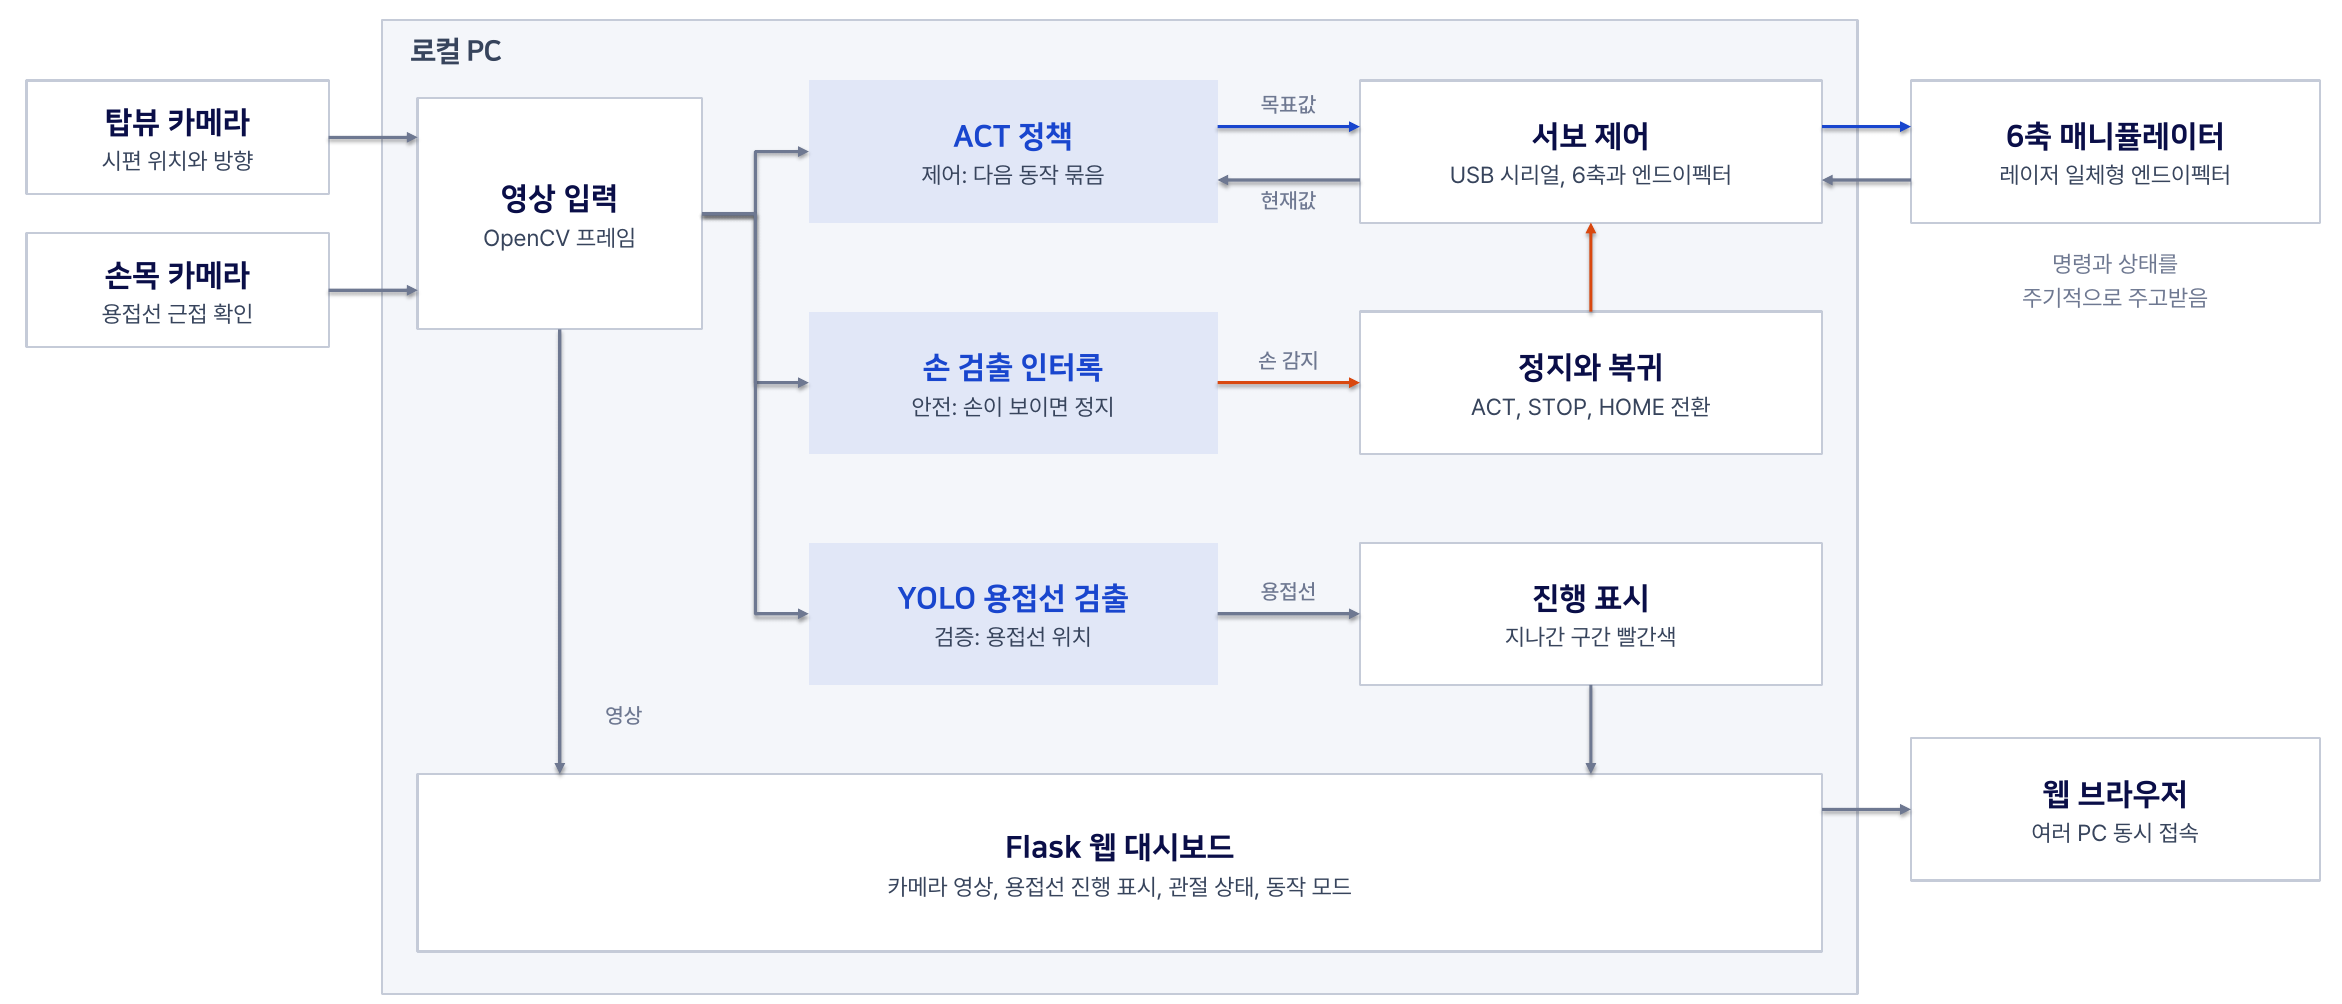
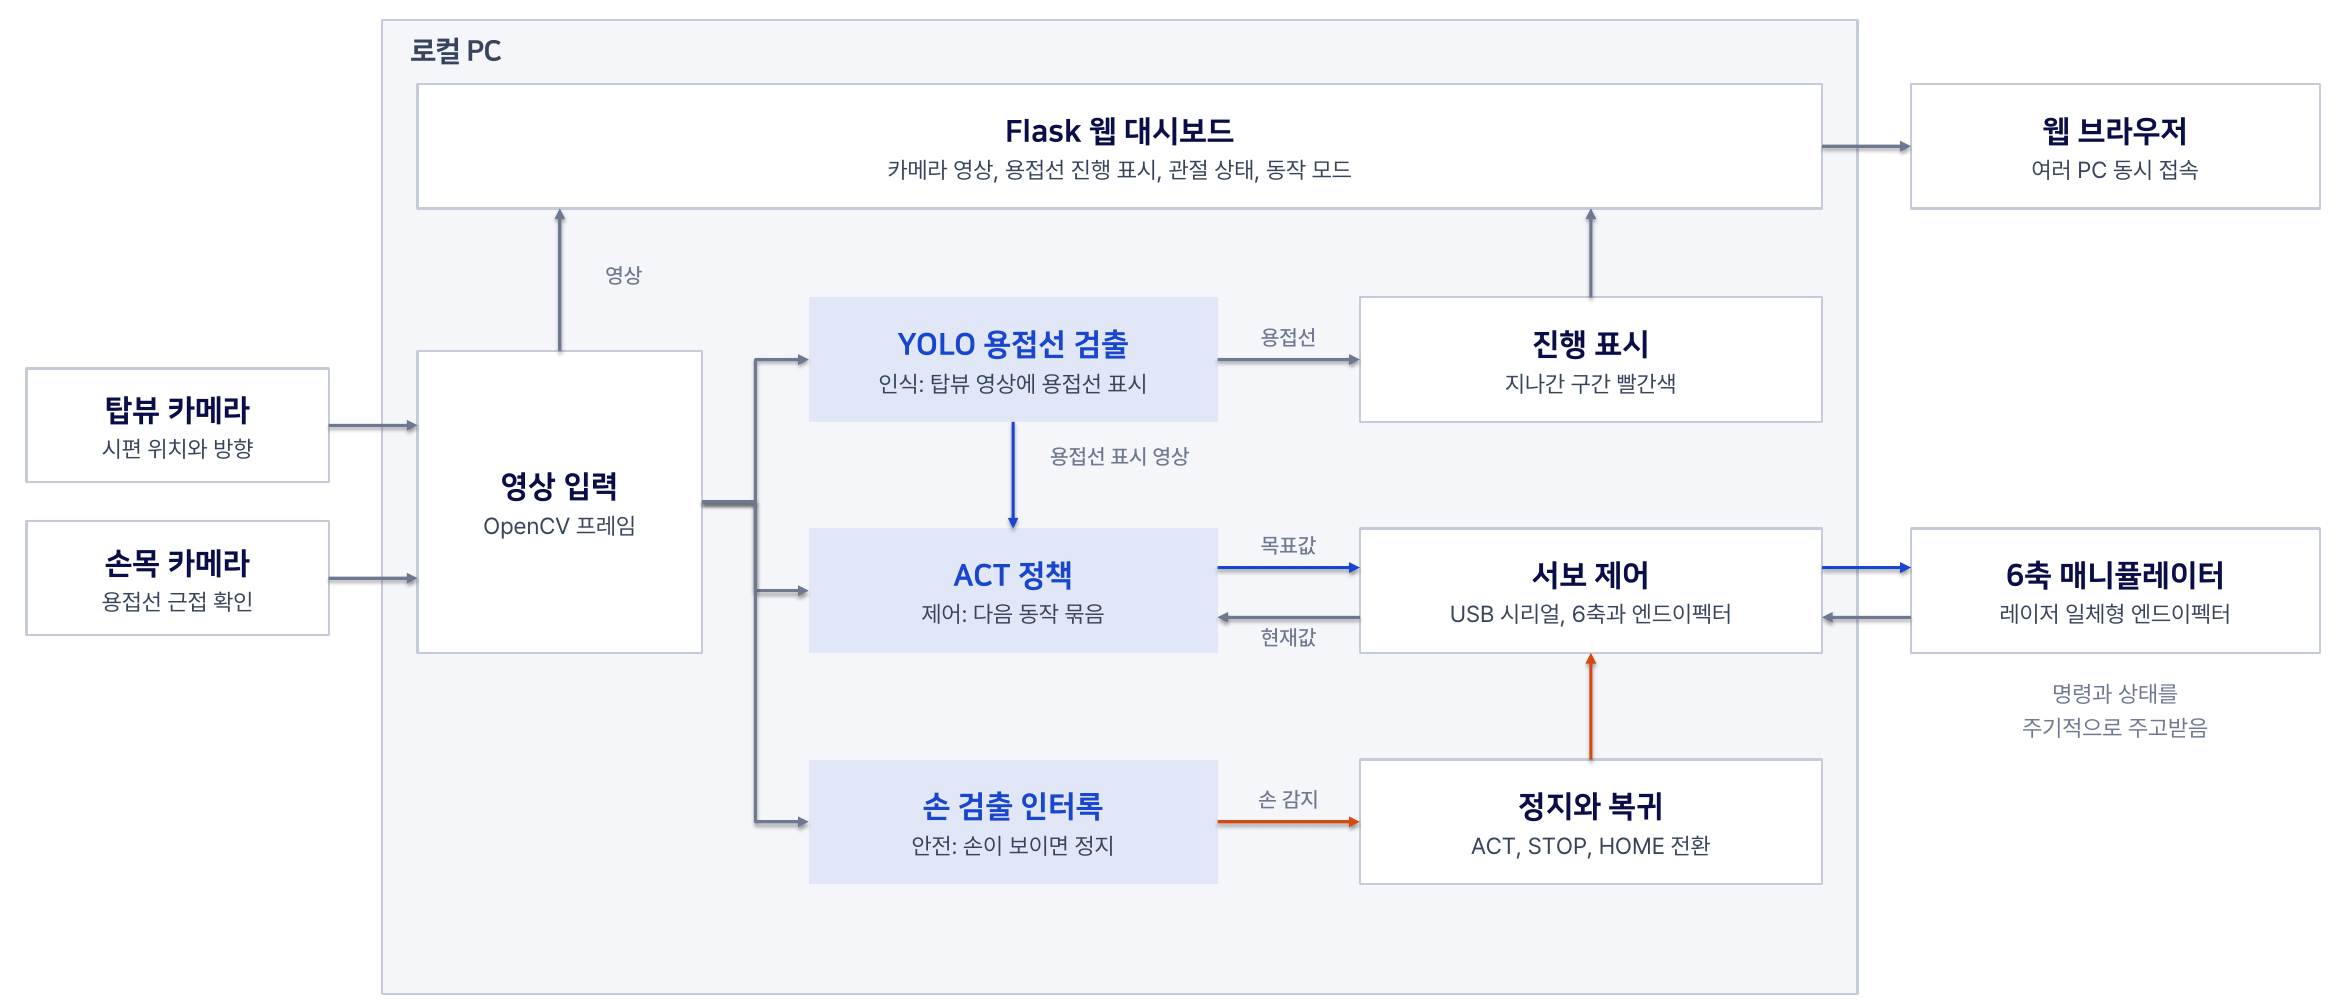
구성도를 YOLO 다음 ACT 순서로 고침
YOLO가 탑뷰 영상에 용접선을 그려 넣고, 그 표시 영상과 손목 영상을 ACT가
입력으로 받는 실제 구조에 맞춤.
- 8장: YOLO를 ACT 바로 위에 두고 '용접선 표시 영상' 화살표로 연결.
  화살표가 겹치지 않게 웹 대시보드를 맨 위로 옮김
- 9장: 세 가지 AI 순서를 YOLO, ACT, 인터록으로 바꾸고 입력과 출력 수정
- 소개 페이지 구성도 그림과 설명도 같은 구조로

diff --git a/index.html b/index.html
@@ -49,52 +49,52 @@
 </head>
 <body>
 <main class="stage" id="stage">
-  <img class="slide" src="deck/final/01.png?v=11121147" alt="2026 IRC 지능로봇대회 매니퓰레이터 종목. 제조 디지털 전환(DX) 6축 자율용접 로봇. 손태산, 김광빈, 김동희, 왕혜영">
-  <img class="slide" src="deck/final/02.png?v=11121147" alt="목차" loading="lazy">
-  <img class="slide" src="deck/final/03.png?v=11121147" alt="1. 프로젝트 개요. 6축 자율용접 로봇. 왼쪽은 코너 시편의 용접선을 초록 레이저로 따라가는 로봇 사진" loading="lazy">
-  <img class="slide" src="deck/final/04.png?v=11121147" alt="2. 프로젝트 수행 배경: 숙련 기술의 단절과 기존 자동용접의 한계. 실내 철골 제작공장 자동용접 사진, 강교량 야외 건설현장 사진" loading="lazy">
-  <img class="slide" src="deck/final/05.png?v=11121147" alt="3. 프로젝트 수행 필요성: 숙련 기술의 계승과 비정형 환경 대응을 위한 자율용접 기술의 필요성" loading="lazy">
+  <img class="slide" src="deck/final/01.png?v=11121211" alt="2026 IRC 지능로봇대회 매니퓰레이터 종목. 제조 디지털 전환(DX) 6축 자율용접 로봇. 손태산, 김광빈, 김동희, 왕혜영">
+  <img class="slide" src="deck/final/02.png?v=11121211" alt="목차" loading="lazy">
+  <img class="slide" src="deck/final/03.png?v=11121211" alt="1. 프로젝트 개요. 6축 자율용접 로봇. 왼쪽은 코너 시편의 용접선을 초록 레이저로 따라가는 로봇 사진" loading="lazy">
+  <img class="slide" src="deck/final/04.png?v=11121211" alt="2. 프로젝트 수행 배경: 숙련 기술의 단절과 기존 자동용접의 한계. 실내 철골 제작공장 자동용접 사진, 강교량 야외 건설현장 사진" loading="lazy">
+  <img class="slide" src="deck/final/05.png?v=11121211" alt="3. 프로젝트 수행 필요성: 숙련 기술의 계승과 비정형 환경 대응을 위한 자율용접 기술의 필요성" loading="lazy">
   <div class="slide">
-    <img src="deck/final/06.png?v=11121147" alt="4. 개발 목표 및 차별성: 룰 베이스를 넘어 숙련 행동 학습으로. OPTi3 용접로봇 전시 시연과 실제 아크 용접 영상, 기존 룰 베이스와 본 프로젝트 비교, 최종 개발 목표" loading="lazy">
+    <img src="deck/final/06.png?v=11121211" alt="4. 개발 목표 및 차별성: 룰 베이스를 넘어 숙련 행동 학습으로. OPTi3 용접로봇 전시 시연과 실제 아크 용접 영상, 기존 룰 베이스와 본 프로젝트 비교, 최종 개발 목표" loading="lazy">
     <!-- PPT 6장 영상 자리(x 60/468, y 270, 392×294pt / 1440×810pt)에 맞춰 올린 6초~20초 구간 GIF -->
-    <img class="clip" style="left:4.1667%; top:33.333%; width:27.222%; height:36.296%;" src="deck/img/opti3_demo.gif?v=11121147" alt="OPTi3 전시 시연 6초에서 20초 구간" loading="lazy">
-    <img class="clip" style="left:32.5%; top:33.333%; width:27.222%; height:36.296%;" src="deck/img/opti3_arc.gif?v=11121147" alt="OPTi3 실제 아크 용접 6초에서 20초 구간" loading="lazy">
+    <img class="clip" style="left:4.1667%; top:33.333%; width:27.222%; height:36.296%;" src="deck/img/opti3_demo.gif?v=11121211" alt="OPTi3 전시 시연 6초에서 20초 구간" loading="lazy">
+    <img class="clip" style="left:32.5%; top:33.333%; width:27.222%; height:36.296%;" src="deck/img/opti3_arc.gif?v=11121211" alt="OPTi3 실제 아크 용접 6초에서 20초 구간" loading="lazy">
   </div>
-  <img class="slide" src="deck/final/07.png?v=11121147" alt="5. 개발 대상 및 자율 작업 시나리오: 수평 접합선에 대응하는 자율용접 작업 구현. 3면 직각 시편과 T형 필릿 시편" loading="lazy">
-  <img class="slide" src="deck/final/08.png?v=11121147" alt="6. 시스템 구성 및 하드웨어 설계: 자율용접 로봇 시스템 아키텍처" loading="lazy">
-  <img class="slide" src="deck/final/09.png?v=11121147" alt="6. 시스템 구성 및 하드웨어 설계: 역할을 나눈 세 가지 AI. ACT 모방학습(제어), YOLO 용접선 검출(인식과 검증), 손 검출 인터록(안전)" loading="lazy">
-  <img class="slide" src="deck/final/10.png?v=11121147" alt="6. 시스템 구성 및 하드웨어 설계: 하드웨어 설계. SolidWorks 조립 기반 6축 매니퓰레이터와 레이저 엔드이펙터 렌더, 엔드이펙터 CAD, 매니퓰레이터, 엔드이펙터, 카메라, 개선 내용" loading="lazy">
-  <img class="slide" src="deck/final/11.png?v=11121147" alt="6. 시스템 구성 및 하드웨어 설계: 직접 개선한 기술. 엔드이펙터 설계 변천 v1, v2, v3, 최종 레이저 일체형" loading="lazy">
+  <img class="slide" src="deck/final/07.png?v=11121211" alt="5. 개발 대상 및 자율 작업 시나리오: 수평 접합선에 대응하는 자율용접 작업 구현. 3면 직각 시편과 T형 필릿 시편" loading="lazy">
+  <img class="slide" src="deck/final/08.png?v=11121211" alt="6. 시스템 구성 및 하드웨어 설계: 자율용접 로봇 시스템 아키텍처. 탑뷰 영상에 YOLO가 용접선을 그려 넣고, 그 영상과 손목 영상으로 ACT 정책이 다음 동작을 냄. 손 검출 시 정지, 진행 표시와 영상은 Flask 웹 대시보드로" loading="lazy">
+  <img class="slide" src="deck/final/09.png?v=11121211" alt="6. 시스템 구성 및 하드웨어 설계: 역할을 나눈 세 가지 AI. YOLO 용접선 검출(인식과 검증, 표시한 영상을 ACT로), ACT 모방학습(제어), 손 검출 인터록(안전)" loading="lazy">
+  <img class="slide" src="deck/final/10.png?v=11121211" alt="6. 시스템 구성 및 하드웨어 설계: 하드웨어 설계. SolidWorks 조립 기반 6축 매니퓰레이터와 레이저 엔드이펙터 렌더, 엔드이펙터 CAD, 매니퓰레이터, 엔드이펙터, 카메라, 개선 내용" loading="lazy">
+  <img class="slide" src="deck/final/11.png?v=11121211" alt="6. 시스템 구성 및 하드웨어 설계: 직접 개선한 기술. 엔드이펙터 설계 변천 v1, v2, v3, 최종 레이저 일체형" loading="lazy">
   <div class="slide">
-    <img src="deck/final/12.png?v=11121147" alt="7. 실시간 작업 모니터링: 웹 대시보드로 보는 영상과 로봇 상태" loading="lazy">
+    <img src="deck/final/12.png?v=11121211" alt="7. 실시간 작업 모니터링: 웹 대시보드로 보는 영상과 로봇 상태" loading="lazy">
     <!-- PPT 12장 대시보드 카메라 칸에 올린 실제 화면 녹화 GIF(코너 시편, 3배속) -->
-    <img class="clip" style="left:4.7222%; top:35.0617%; width:25.9722%; height:25.9259%;" src="deck/img/corner_dash_top.gif?v=11121147" alt="상단 카메라 실제 화면. 코너 시편 용접선 두 개가 파란색에서 빨간색으로 바뀜, 3배속" loading="lazy">
-    <img class="clip" style="left:31.8056%; top:35.0617%; width:25.9722%; height:25.9259%;" src="deck/img/corner_dash_wrist.gif?v=11121147" alt="손목 카메라 실제 화면. 시편 위 초록 레이저 점, 3배속" loading="lazy">
+    <img class="clip" style="left:4.7222%; top:35.0617%; width:25.9722%; height:25.9259%;" src="deck/img/corner_dash_top.gif?v=11121211" alt="상단 카메라 실제 화면. 코너 시편 용접선 두 개가 파란색에서 빨간색으로 바뀜, 3배속" loading="lazy">
+    <img class="clip" style="left:31.8056%; top:35.0617%; width:25.9722%; height:25.9259%;" src="deck/img/corner_dash_wrist.gif?v=11121211" alt="손목 카메라 실제 화면. 시편 위 초록 레이저 점, 3배속" loading="lazy">
     <span class="camlabel" style="left:4.7222%; top:57.5309%; width:25.9722%; height:3.4568%;">상단 카메라<b>LIVE</b></span>
     <span class="camlabel" style="left:31.8056%; top:57.5309%; width:25.9722%; height:3.4568%;">손목 카메라<b>LIVE</b></span>
     <span class="tag" style="left:26.6667%; top:36.0494%; width:3.4722%; height:2.7160%;">3배속</span>
     <span class="tag" style="left:53.7500%; top:36.0494%; width:3.4722%; height:2.7160%;">3배속</span>
   </div>
   <div class="slide">
-    <img src="deck/final/13.png?v=11121147" alt="7. 실시간 작업 모니터링: YOLO 용접선 검출과 진행 표시, 성공 판정 기준" loading="lazy">
+    <img src="deck/final/13.png?v=11121211" alt="7. 실시간 작업 모니터링: YOLO 용접선 검출과 진행 표시, 성공 판정 기준" loading="lazy">
     <!-- PPT 13장 가운데 칸(진행 중)에 올린 2배속 GIF -->
-    <img class="clip" style="left:34.0278%; top:28.1481%; width:27.7778%; height:37.0370%;" src="deck/img/t_yolo_progress.gif?v=11121147" alt="T자 시편 상단 카메라 화면. 레이저가 지나간 구간의 용접선이 파란색에서 빨간색으로 바뀜, 2배속" loading="lazy">
+    <img class="clip" style="left:34.0278%; top:28.1481%; width:27.7778%; height:37.0370%;" src="deck/img/t_yolo_progress.gif?v=11121211" alt="T자 시편 상단 카메라 화면. 레이저가 지나간 구간의 용접선이 파란색에서 빨간색으로 바뀜, 2배속" loading="lazy">
     <span class="tag" style="left:57.7778%; top:29.1358%; width:3.4722%; height:2.7160%;">2배속</span>
   </div>
-  <img class="slide" src="deck/final/14.png?v=11121147" alt="7. 실시간 작업 모니터링: YOLO 추론 최적화로 2.1배 가속. PyTorch에서 ONNX, TensorRT FP16 변환, 1회 추론 시간 중앙값 8.1 ms에서 3.8 ms, 정확도 유지, ACT 정책 변환 예정" loading="lazy">
-  <img class="slide" src="deck/final/15.png?v=11121147" alt="8. ACT 기반 모방학습 및 자율 제어: 시연, 기록, ACT 학습, 자율 실행, ACT는 동작을 묶음으로 예측" loading="lazy">
+  <img class="slide" src="deck/final/14.png?v=11121211" alt="7. 실시간 작업 모니터링: YOLO 추론 최적화로 2.1배 가속. PyTorch에서 ONNX, TensorRT FP16 변환, 1회 추론 시간 중앙값 8.1 ms에서 3.8 ms, 정확도 유지, ACT 정책 변환 예정" loading="lazy">
+  <img class="slide" src="deck/final/15.png?v=11121211" alt="8. ACT 기반 모방학습 및 자율 제어: 시연, 기록, ACT 학습, 자율 실행, ACT는 동작을 묶음으로 예측" loading="lazy">
   <div class="slide">
-    <img src="deck/final/16.png?v=11121147" alt="9. 자율 용접 시연: 임의 배치 시편 자율용접 시연, 확인 항목 8개, 시연 시편(T자 필릿, 3면 직각)" loading="lazy">
+    <img src="deck/final/16.png?v=11121211" alt="9. 자율 용접 시연: 임의 배치 시편 자율용접 시연, 확인 항목 8개, 시연 시편(T자 필릿, 3면 직각)" loading="lazy">
     <!-- PPT 16장 시연 영상 자리(1440×810pt 기준)에 올린 2배속 GIF와 배속 표시 -->
-    <img class="clip" style="left:8.2509%; top:29.1358%; width:22.8602%; height:42.4691%;" src="deck/img/t_demo.gif?v=11121147" alt="T자 필릿 시편 자율용접 시연, 2배속" loading="lazy">
-    <img class="clip" style="left:32.7778%; top:29.1358%; width:22.8602%; height:42.4691%;" src="deck/img/corner_demo.gif?v=11121147" alt="3면 직각 코너 시편 자율용접 시연, 2배속" loading="lazy">
+    <img class="clip" style="left:8.2509%; top:29.1358%; width:22.8602%; height:42.4691%;" src="deck/img/t_demo.gif?v=11121211" alt="T자 필릿 시편 자율용접 시연, 2배속" loading="lazy">
+    <img class="clip" style="left:32.7778%; top:29.1358%; width:22.8602%; height:42.4691%;" src="deck/img/corner_demo.gif?v=11121211" alt="3면 직각 코너 시편 자율용접 시연, 2배속" loading="lazy">
     <span class="tag" style="left:27.0833%; top:30.1235%; width:3.4722%; height:2.7160%;">2배속</span>
     <span class="tag" style="left:51.6102%; top:30.1235%; width:3.4722%; height:2.7160%;">2배속</span>
   </div>
-  <img class="slide" src="deck/final/17.png?v=11121147" alt="9. 자율 용접 시연: 성공 판정 기준. 시편 인식, 시작점 접근, 토치 거리 유지, 레이저 ON, 용접선 추종, 종료점 도달, 레이저 OFF, 원위치 복귀의 8개 항목을 모두 통과해야 성공. 용접선 추종은 경로 이탈 5mm 이하와 용접선의 90% 이상이 빨간색으로 바뀌는 것" loading="lazy">
-  <img class="slide" src="deck/final/18.png?v=11121147" alt="9. 자율 용접 시연: 시연 결과. 학습한 배치 40회 중 39회(97.5%), 처음 보는 배치 40회 중 37회(92.5%) 성공. 성공 기준은 8개 판정 항목을 모두 통과한 시도. 인터록 반응 시간 최대 약 100 ms(계산값)" loading="lazy">
-  <img class="slide" src="deck/final/19.png?v=11121147" alt="10. 결론 및 향후 과제" loading="lazy">
-  <img class="slide" src="deck/final/20.png?v=11121147" alt="10. 결론 및 향후 과제: 한계점과 향후 과제, 홈페이지 QR 코드" loading="lazy">
+  <img class="slide" src="deck/final/17.png?v=11121211" alt="9. 자율 용접 시연: 성공 판정 기준. 시편 인식, 시작점 접근, 토치 거리 유지, 레이저 ON, 용접선 추종, 종료점 도달, 레이저 OFF, 원위치 복귀의 8개 항목을 모두 통과해야 성공. 용접선 추종은 경로 이탈 5mm 이하와 용접선의 90% 이상이 빨간색으로 바뀌는 것" loading="lazy">
+  <img class="slide" src="deck/final/18.png?v=11121211" alt="9. 자율 용접 시연: 시연 결과. 학습한 배치 40회 중 39회(97.5%), 처음 보는 배치 40회 중 37회(92.5%) 성공. 성공 기준은 8개 판정 항목을 모두 통과한 시도. 인터록 반응 시간 최대 약 100 ms(계산값)" loading="lazy">
+  <img class="slide" src="deck/final/19.png?v=11121211" alt="10. 결론 및 향후 과제" loading="lazy">
+  <img class="slide" src="deck/final/20.png?v=11121211" alt="10. 결론 및 향후 과제: 한계점과 향후 과제, 홈페이지 QR 코드" loading="lazy">
 </main>
 
 <div class="bar">

diff --git a/project.html b/project.html
@@ -99,7 +99,7 @@
   <h2><small>01</small>무엇을 만들었나</h2>
   <div class="two">
     <figure>
-      <img class="tall" src="project/img/robot_corner_laser.jpg?v=11121147" alt="자체 제작 6축 로봇이 코너 시편의 용접선을 초록 레이저로 따라가는 장면" loading="lazy">
+      <img class="tall" src="project/img/robot_corner_laser.jpg?v=11121211" alt="자체 제작 6축 로봇이 코너 시편의 용접선을 초록 레이저로 따라가는 장면" loading="lazy">
       <figcaption>코너 시편의 용접선을 레이저로 따라가는 자체 제작 6축 로봇</figcaption>
     </figure>
     <div>
@@ -123,11 +123,12 @@
 <section id="system">
   <h2><small>02</small>시스템 구성</h2>
   <figure>
-    <img src="project/img/architecture.png?v=11121147" alt="시스템 구성도. 상단과 손목 카메라 영상이 로컬 PC의 ACT 정책으로 들어가고, 정책의 목표 관절값이 서보 제어를 거쳐 6축 매니퓰레이터와 엔드이펙터로 전달됨. 손 검출 시 정지, 웹 클라이언트로 영상과 상태 전송" loading="lazy">
+    <img src="project/img/architecture.png?v=11121211" alt="시스템 구성도. 상단 카메라 영상에 YOLO가 용접선을 그려 넣고, 그 영상과 손목 카메라 영상이 ACT 정책으로 들어감. 정책의 목표 관절값이 서보 제어를 거쳐 6축 매니퓰레이터와 엔드이펙터로 전달됨. 손 검출 시 정지, 진행 표시와 영상은 웹 대시보드로 전송" loading="lazy">
   </figure>
   <ul class="plain">
     <li>카메라 2대(상단, 손목) 영상이 USB로 로컬 PC에 들어옵니다.</li>
-    <li>ACT 정책이 영상과 현재 관절 위치 q를 받아 다음 목표 관절값 q*를 냅니다.</li>
+    <li>YOLO가 상단 카메라 영상에서 용접선을 찾아 영상에 그려 넣습니다.</li>
+    <li>ACT 정책이 이 표시 영상과 손목 영상, 현재 관절 위치 q를 받아 다음 목표 관절값 q*를 냅니다.</li>
     <li>서보 제어부가 USB 시리얼(TTL)로 명령을 보내고 현재 위치를 다시 읽습니다.</li>
     <li>작업 영역에서 손이 검출되면 정지하고, 손이 빠진 뒤 복귀를 허용합니다.</li>
     <li>Flask 웹 서비스로 여러 PC의 브라우저에서 영상과 상태를 봅니다.</li>
@@ -153,7 +154,7 @@
   <h3>엔드이펙터 출력 파일</h3>
   <div class="two">
     <figure>
-      <img src="project/img/ee_cad.png?v=11121147" alt="최종 레이저 일체형 엔드이펙터 CAD. 서보와 본체, 레이저 포인터를 잡는 집게와 브래킷" loading="lazy">
+      <img src="project/img/ee_cad.png?v=11121211" alt="최종 레이저 일체형 엔드이펙터 CAD. 서보와 본체, 레이저 포인터를 잡는 집게와 브래킷" loading="lazy">
       <figcaption>최종 레이저 일체형 엔드이펙터</figcaption>
     </figure>
     <div>
@@ -177,7 +178,7 @@
   <h2><small>04</small>엔드이펙터 개선 과정</h2>
   <div class="two">
     <figure>
-      <img src="project/img/ee_torch_old.jpg?v=11121147" alt="1차 설계인 OPTi3 축소 토치형 엔드이펙터 CAD. 토치 옆에 레이저와 서보가 달려 있음" loading="lazy">
+      <img src="project/img/ee_torch_old.jpg?v=11121211" alt="1차 설계인 OPTi3 축소 토치형 엔드이펙터 CAD. 토치 옆에 레이저와 서보가 달려 있음" loading="lazy">
       <figcaption>1차 설계: OPTi3 축소 토치형 (토치 단축, 레이저 후퇴 적용 후)</figcaption>
     </figure>
     <div>
